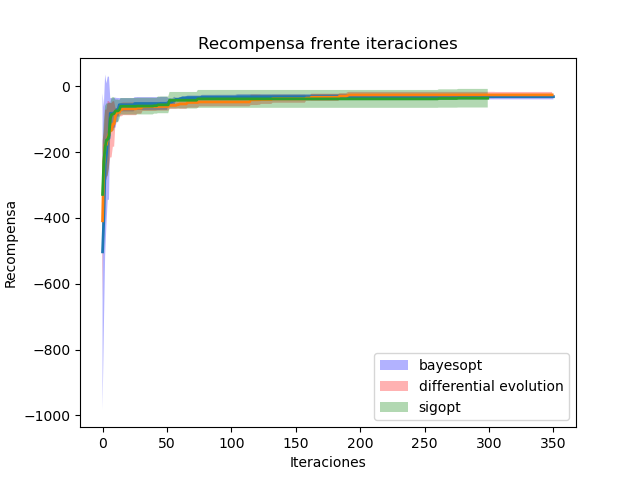
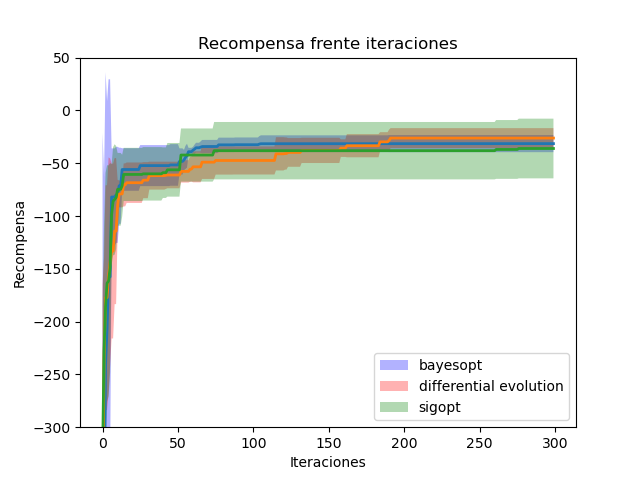
Optimizacion de todas las tareas con SigOpt.

diff --git a/print_graph.py b/print_graph.py
@@ -3,15 +3,15 @@ import numpy as np
 import matplotlib.pyplot as plt
 import scipy.stats as sp
 
-TASK_DIR = "three_obstacles/"
-TASK_NAME = "three_obstacles"
+TASK_DIR = "slide_object/"
+TASK_NAME = "slide_block"
 # coords_type = "esfericas"
-VARIATION = ""
+VARIATION = "2block"
 
-file1 = TASK_DIR + "listas_bayesopt_" + TASK_NAME + ".p"
+file1 = TASK_DIR + "listas_bayesopt_" + TASK_NAME + "_" + VARIATION + ".p"
 resultados1 = pickle.load(open(file1, "rb"))
 
-file2 = TASK_DIR + "listas_difevol_" + TASK_NAME + ".p"
+file2 = TASK_DIR + "listas_difevol_" + TASK_NAME + "_" + VARIATION + ".p"
 resultados2 = pickle.load(open(file2, "rb"))
 
 file3 = TASK_DIR + "listas_sigopt_" + TASK_NAME + "_" + VARIATION + ".p"
@@ -72,7 +72,7 @@ plt.ylabel(ylabel='Recompensa')
 plt.xlabel(xlabel='Iteraciones')
 plt.title(label='Recompensa frente iteraciones')
 plt.legend(loc='lower right')
-# plt.ylim(bottom=-10, top=0)
+plt.ylim(bottom=-300, top=50)
 plt.savefig(TASK_DIR + "it_reward_" + TASK_NAME + "_" + VARIATION + ".png")
 plt.show()
 
